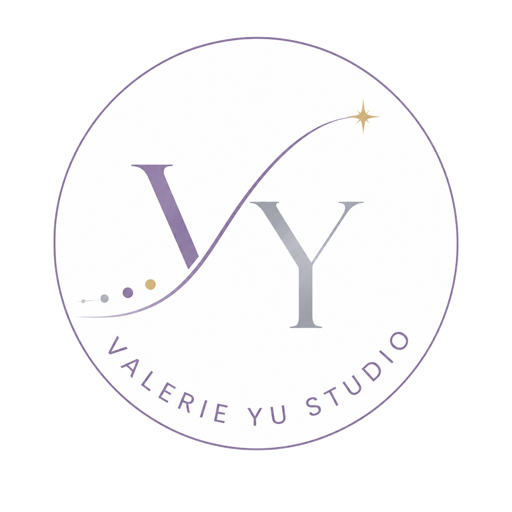
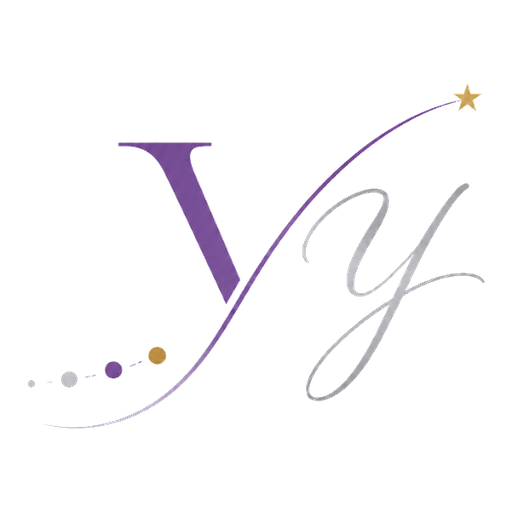
feat(brand): 分頁小圖示與 App 圖示換成紫色 VY 字標
Claude-Session: https://claude.ai/code/session_01GS6UBWgqeVyYQ2c8gkuCzo

diff --git a/about.html b/about.html
@@ -13,13 +13,13 @@
     <link rel="stylesheet" href="sketch.css?v=20261106b">
 
     <!-- Favicon & Chrome / PWA Shortcut Icons -->
-    <link rel="icon" type="image/x-icon" href="favicon.ico">
-    <link rel="shortcut icon" href="favicon.ico">
-    <link rel="icon" type="image/png" sizes="32x32" href="assets/favicon-32x32.png">
-    <link rel="icon" type="image/png" sizes="16x16" href="assets/favicon-16x16.png">
+    <link rel="icon" type="image/x-icon" href="favicon.ico?v=20261109">
+    <link rel="shortcut icon" href="favicon.ico?v=20261109">
+    <link rel="icon" type="image/png" sizes="32x32" href="assets/favicon-32x32.png?v=20261109">
+    <link rel="icon" type="image/png" sizes="16x16" href="assets/favicon-16x16.png?v=20261109">
     <link rel="icon" type="image/png" sizes="192x192" href="assets/icon-192.png">
     <link rel="icon" type="image/png" sizes="512x512" href="assets/icon-512.png">
-    <link rel="apple-touch-icon" sizes="180x180" href="assets/apple-touch-icon.png">
+    <link rel="apple-touch-icon" sizes="180x180" href="assets/apple-touch-icon.png?v=20261109">
     <link rel="manifest" href="site.webmanifest">
     <meta name="theme-color" content="#82689d">
     <meta name="mobile-web-app-capable" content="yes">

diff --git a/moments.html b/moments.html
@@ -13,13 +13,13 @@
     <link rel="stylesheet" href="sketch.css?v=20261106b">
 
     <!-- Favicon & Chrome / PWA Shortcut Icons -->
-    <link rel="icon" type="image/x-icon" href="favicon.ico">
-    <link rel="shortcut icon" href="favicon.ico">
-    <link rel="icon" type="image/png" sizes="32x32" href="assets/favicon-32x32.png">
-    <link rel="icon" type="image/png" sizes="16x16" href="assets/favicon-16x16.png">
+    <link rel="icon" type="image/x-icon" href="favicon.ico?v=20261109">
+    <link rel="shortcut icon" href="favicon.ico?v=20261109">
+    <link rel="icon" type="image/png" sizes="32x32" href="assets/favicon-32x32.png?v=20261109">
+    <link rel="icon" type="image/png" sizes="16x16" href="assets/favicon-16x16.png?v=20261109">
     <link rel="icon" type="image/png" sizes="192x192" href="assets/icon-192.png">
     <link rel="icon" type="image/png" sizes="512x512" href="assets/icon-512.png">
-    <link rel="apple-touch-icon" sizes="180x180" href="assets/apple-touch-icon.png">
+    <link rel="apple-touch-icon" sizes="180x180" href="assets/apple-touch-icon.png?v=20261109">
     <link rel="manifest" href="site.webmanifest">
     <meta name="theme-color" content="#82689d">
     <meta name="mobile-web-app-capable" content="yes">

diff --git a/works.html b/works.html
@@ -13,13 +13,13 @@
     <link rel="stylesheet" href="sketch.css?v=20261106b">
 
     <!-- Favicon & Chrome / PWA Shortcut Icons -->
-    <link rel="icon" type="image/x-icon" href="favicon.ico">
-    <link rel="shortcut icon" href="favicon.ico">
-    <link rel="icon" type="image/png" sizes="32x32" href="assets/favicon-32x32.png">
-    <link rel="icon" type="image/png" sizes="16x16" href="assets/favicon-16x16.png">
+    <link rel="icon" type="image/x-icon" href="favicon.ico?v=20261109">
+    <link rel="shortcut icon" href="favicon.ico?v=20261109">
+    <link rel="icon" type="image/png" sizes="32x32" href="assets/favicon-32x32.png?v=20261109">
+    <link rel="icon" type="image/png" sizes="16x16" href="assets/favicon-16x16.png?v=20261109">
     <link rel="icon" type="image/png" sizes="192x192" href="assets/icon-192.png">
     <link rel="icon" type="image/png" sizes="512x512" href="assets/icon-512.png">
-    <link rel="apple-touch-icon" sizes="180x180" href="assets/apple-touch-icon.png">
+    <link rel="apple-touch-icon" sizes="180x180" href="assets/apple-touch-icon.png?v=20261109">
     <link rel="manifest" href="site.webmanifest">
     <meta name="theme-color" content="#82689d">
     <meta name="mobile-web-app-capable" content="yes">

diff --git a/spotlight-measure-quest.html b/spotlight-measure-quest.html
@@ -14,13 +14,13 @@
     <link rel="stylesheet" href="sketch.css?v=20261106">
 
     <!-- Favicon & Chrome / PWA Shortcut Icons -->
-    <link rel="icon" type="image/x-icon" href="favicon.ico">
-    <link rel="shortcut icon" href="favicon.ico">
-    <link rel="icon" type="image/png" sizes="32x32" href="assets/favicon-32x32.png">
-    <link rel="icon" type="image/png" sizes="16x16" href="assets/favicon-16x16.png">
+    <link rel="icon" type="image/x-icon" href="favicon.ico?v=20261109">
+    <link rel="shortcut icon" href="favicon.ico?v=20261109">
+    <link rel="icon" type="image/png" sizes="32x32" href="assets/favicon-32x32.png?v=20261109">
+    <link rel="icon" type="image/png" sizes="16x16" href="assets/favicon-16x16.png?v=20261109">
     <link rel="icon" type="image/png" sizes="192x192" href="assets/icon-192.png">
     <link rel="icon" type="image/png" sizes="512x512" href="assets/icon-512.png">
-    <link rel="apple-touch-icon" sizes="180x180" href="assets/apple-touch-icon.png">
+    <link rel="apple-touch-icon" sizes="180x180" href="assets/apple-touch-icon.png?v=20261109">
     <link rel="manifest" href="site.webmanifest">
     <meta name="theme-color" content="#82689d">
     <meta name="mobile-web-app-capable" content="yes">

diff --git a/index.html b/index.html
@@ -16,9 +16,9 @@
     <link rel="preconnect" href="https://fonts.googleapis.com">
     <link rel="preconnect" href="https://fonts.gstatic.com" crossorigin>
     <link href="https://fonts.googleapis.com/css2?family=Pinyon+Script&family=Cactus+Classical+Serif&family=Chiron+Hei+HK:wght@300;400;500;700&family=Noto+Serif+TC:wght@500;700&family=Noto+Sans+TC:wght@300;400;500;700&display=swap" rel="stylesheet">
-    <link rel="icon" type="image/x-icon" href="favicon.ico">
-    <link rel="icon" type="image/png" sizes="32x32" href="assets/favicon-32x32.png">
-    <link rel="apple-touch-icon" sizes="180x180" href="assets/apple-touch-icon.png">
+    <link rel="icon" type="image/x-icon" href="favicon.ico?v=20261109">
+    <link rel="icon" type="image/png" sizes="32x32" href="assets/favicon-32x32.png?v=20261109">
+    <link rel="apple-touch-icon" sizes="180x180" href="assets/apple-touch-icon.png?v=20261109">
     <link rel="manifest" href="site.webmanifest">
     <meta name="theme-color" content="#82689d">
 <style>

diff --git a/admin.html b/admin.html
@@ -12,7 +12,7 @@
     <link rel="stylesheet" href="https://cdnjs.cloudflare.com/ajax/libs/font-awesome/6.4.0/css/all.min.css">
     
     <!-- Favicon -->
-    <link rel="icon" type="image/x-icon" href="favicon.ico">
+    <link rel="icon" type="image/x-icon" href="favicon.ico?v=20261109">
     <link rel="apple-touch-icon" href="apple-touch-icon.png">
 
     <!-- Firebase SDK (Compat) -->
